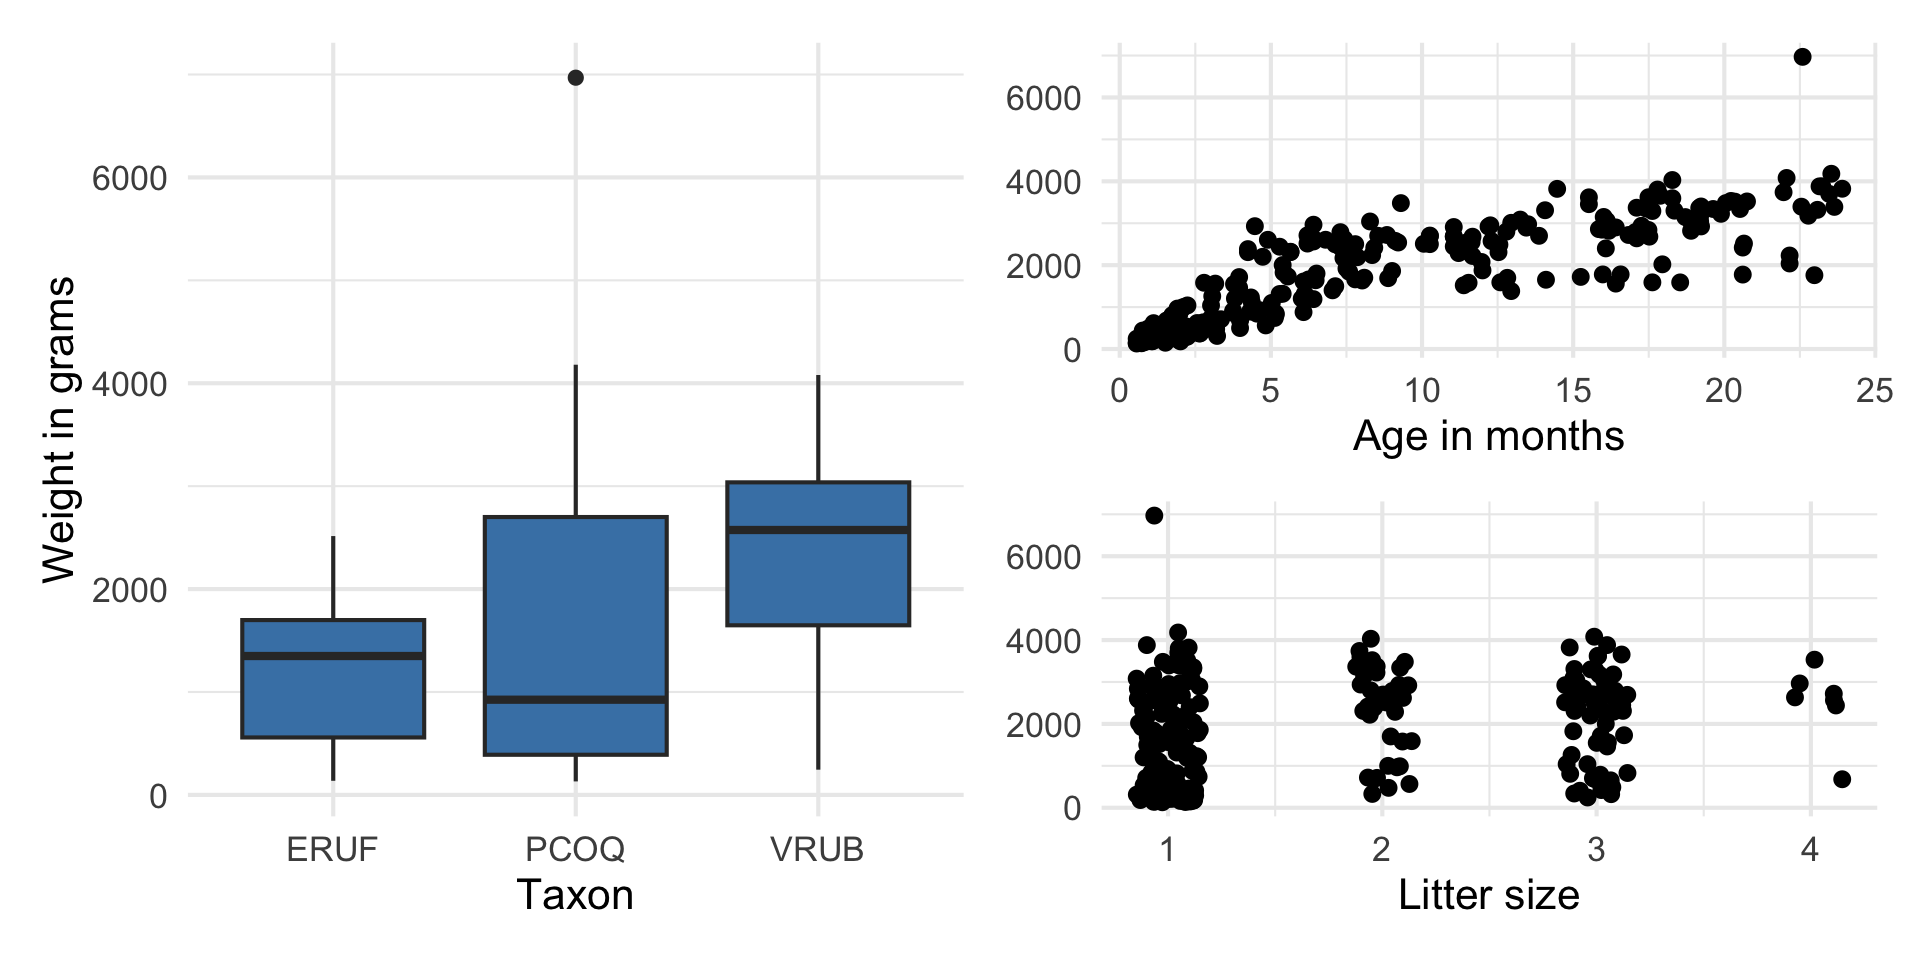
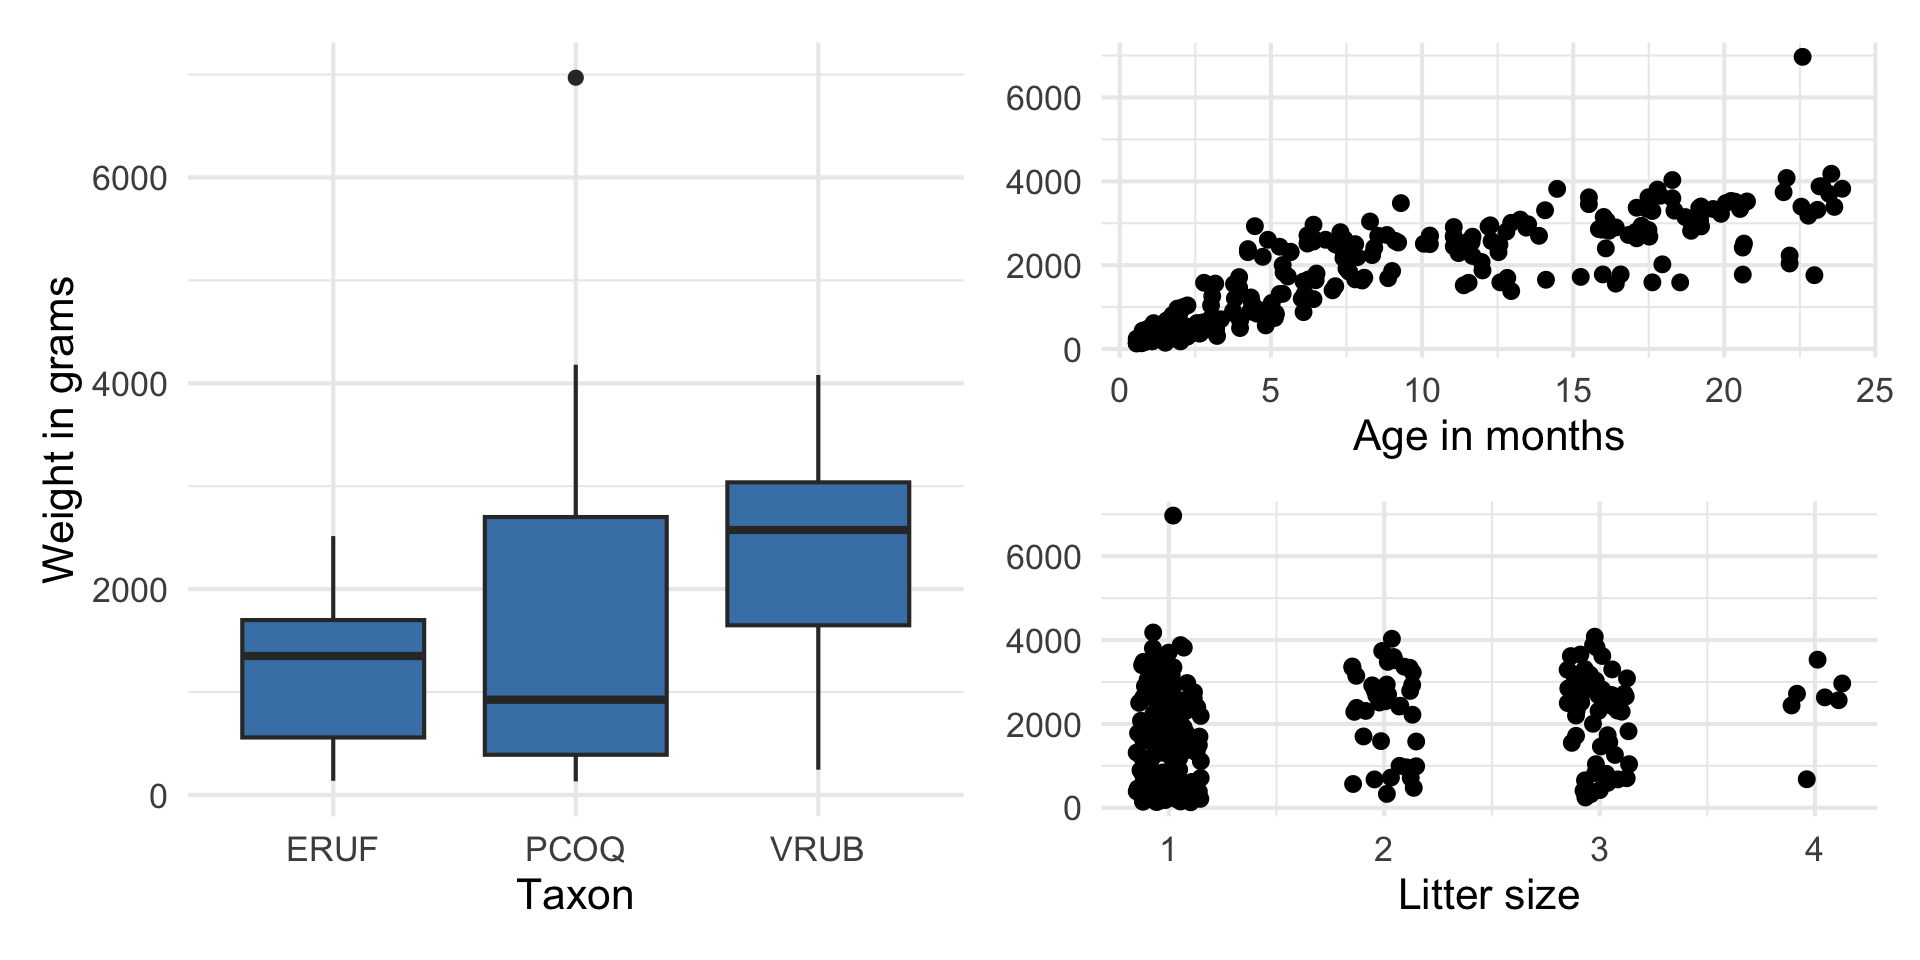
fix link to notes.

diff --git a/docs/index.html b/docs/index.html
@@ -376,23 +376,23 @@ ul.task-list li input[type="checkbox"] {
 <div class="column-screen-right">
 <div class="cell">
 <div class="cell-output-display">
-<div id="evedrgtkqq" style="padding-left:0px;padding-right:0px;padding-top:10px;padding-bottom:10px;overflow-x:auto;overflow-y:auto;width:auto;height:auto;">
-<style>#evedrgtkqq table {
+<div id="gwstlenmlp" style="padding-left:0px;padding-right:0px;padding-top:10px;padding-bottom:10px;overflow-x:auto;overflow-y:auto;width:auto;height:auto;">
+<style>#gwstlenmlp table {
   font-family: system-ui, 'Segoe UI', Roboto, Helvetica, Arial, sans-serif, 'Apple Color Emoji', 'Segoe UI Emoji', 'Segoe UI Symbol', 'Noto Color Emoji';
   -webkit-font-smoothing: antialiased;
   -moz-osx-font-smoothing: grayscale;
 }
 
-#evedrgtkqq thead, #evedrgtkqq tbody, #evedrgtkqq tfoot, #evedrgtkqq tr, #evedrgtkqq td, #evedrgtkqq th {
+#gwstlenmlp thead, #gwstlenmlp tbody, #gwstlenmlp tfoot, #gwstlenmlp tr, #gwstlenmlp td, #gwstlenmlp th {
   border-style: none;
 }
 
-#evedrgtkqq p {
+#gwstlenmlp p {
   margin: 0;
   padding: 0;
 }
 
-#evedrgtkqq .gt_table {
+#gwstlenmlp .gt_table {
   display: table;
   border-collapse: collapse;
   line-height: normal;
@@ -418,12 +418,12 @@ ul.task-list li input[type="checkbox"] {
   border-left-color: #D3D3D3;
 }
 
-#evedrgtkqq .gt_caption {
+#gwstlenmlp .gt_caption {
   padding-top: 4px;
   padding-bottom: 4px;
 }
 
-#evedrgtkqq .gt_title {
+#gwstlenmlp .gt_title {
   color: #333333;
   font-size: 125%;
   font-weight: initial;
@@ -435,7 +435,7 @@ ul.task-list li input[type="checkbox"] {
   border-bottom-width: 0;
 }
 
-#evedrgtkqq .gt_subtitle {
+#gwstlenmlp .gt_subtitle {
   color: #333333;
   font-size: 85%;
   font-weight: initial;
@@ -447,7 +447,7 @@ ul.task-list li input[type="checkbox"] {
   border-top-width: 0;
 }
 
-#evedrgtkqq .gt_heading {
+#gwstlenmlp .gt_heading {
   background-color: #FFFFFF;
   text-align: center;
   border-bottom-color: #FFFFFF;
@@ -459,13 +459,13 @@ ul.task-list li input[type="checkbox"] {
   border-right-color: #D3D3D3;
 }
 
-#evedrgtkqq .gt_bottom_border {
+#gwstlenmlp .gt_bottom_border {
   border-bottom-style: solid;
   border-bottom-width: 2px;
   border-bottom-color: #D3D3D3;
 }
 
-#evedrgtkqq .gt_col_headings {
+#gwstlenmlp .gt_col_headings {
   border-top-style: solid;
   border-top-width: 2px;
   border-top-color: #D3D3D3;
@@ -480,7 +480,7 @@ ul.task-list li input[type="checkbox"] {
   border-right-color: #D3D3D3;
 }
 
-#evedrgtkqq .gt_col_heading {
+#gwstlenmlp .gt_col_heading {
   color: #333333;
   background-color: #FFFFFF;
   font-size: 100%;
@@ -500,7 +500,7 @@ ul.task-list li input[type="checkbox"] {
   overflow-x: hidden;
 }
 
-#evedrgtkqq .gt_column_spanner_outer {
+#gwstlenmlp .gt_column_spanner_outer {
   color: #333333;
   background-color: #FFFFFF;
   font-size: 100%;
@@ -512,15 +512,15 @@ ul.task-list li input[type="checkbox"] {
   padding-right: 4px;
 }
 
-#evedrgtkqq .gt_column_spanner_outer:first-child {
+#gwstlenmlp .gt_column_spanner_outer:first-child {
   padding-left: 0;
 }
 
-#evedrgtkqq .gt_column_spanner_outer:last-child {
+#gwstlenmlp .gt_column_spanner_outer:last-child {
   padding-right: 0;
 }
 
-#evedrgtkqq .gt_column_spanner {
+#gwstlenmlp .gt_column_spanner {
   border-bottom-style: solid;
   border-bottom-width: 2px;
   border-bottom-color: #D3D3D3;
@@ -532,11 +532,11 @@ ul.task-list li input[type="checkbox"] {
   width: 100%;
 }
 
-#evedrgtkqq .gt_spanner_row {
+#gwstlenmlp .gt_spanner_row {
   border-bottom-style: hidden;
 }
 
-#evedrgtkqq .gt_group_heading {
+#gwstlenmlp .gt_group_heading {
   padding-top: 8px;
   padding-bottom: 8px;
   padding-left: 5px;
@@ -562,7 +562,7 @@ ul.task-list li input[type="checkbox"] {
   text-align: left;
 }
 
-#evedrgtkqq .gt_empty_group_heading {
+#gwstlenmlp .gt_empty_group_heading {
   padding: 0.5px;
   color: #333333;
   background-color: #FFFFFF;
@@ -577,15 +577,15 @@ ul.task-list li input[type="checkbox"] {
   vertical-align: middle;
 }
 
-#evedrgtkqq .gt_from_md > :first-child {
+#gwstlenmlp .gt_from_md > :first-child {
   margin-top: 0;
 }
 
-#evedrgtkqq .gt_from_md > :last-child {
+#gwstlenmlp .gt_from_md > :last-child {
   margin-bottom: 0;
 }
 
-#evedrgtkqq .gt_row {
+#gwstlenmlp .gt_row {
   padding-top: 8px;
   padding-bottom: 8px;
   padding-left: 5px;
@@ -604,7 +604,7 @@ ul.task-list li input[type="checkbox"] {
   overflow-x: hidden;
 }
 
-#evedrgtkqq .gt_stub {
+#gwstlenmlp .gt_stub {
   color: #333333;
   background-color: #FFFFFF;
   font-size: 100%;
@@ -617,7 +617,7 @@ ul.task-list li input[type="checkbox"] {
   padding-right: 5px;
 }
 
-#evedrgtkqq .gt_stub_row_group {
+#gwstlenmlp .gt_stub_row_group {
   color: #333333;
   background-color: #FFFFFF;
   font-size: 100%;
@@ -631,15 +631,15 @@ ul.task-list li input[type="checkbox"] {
   vertical-align: top;
 }
 
-#evedrgtkqq .gt_row_group_first td {
+#gwstlenmlp .gt_row_group_first td {
   border-top-width: 2px;
 }
 
-#evedrgtkqq .gt_row_group_first th {
+#gwstlenmlp .gt_row_group_first th {
   border-top-width: 2px;
 }
 
-#evedrgtkqq .gt_summary_row {
+#gwstlenmlp .gt_summary_row {
   color: #333333;
   background-color: #FFFFFF;
   text-transform: inherit;
@@ -649,16 +649,16 @@ ul.task-list li input[type="checkbox"] {
   padding-right: 5px;
 }
 
-#evedrgtkqq .gt_first_summary_row {
+#gwstlenmlp .gt_first_summary_row {
   border-top-style: solid;
   border-top-color: #D3D3D3;
 }
 
-#evedrgtkqq .gt_first_summary_row.thick {
+#gwstlenmlp .gt_first_summary_row.thick {
   border-top-width: 2px;
 }
 
-#evedrgtkqq .gt_last_summary_row {
+#gwstlenmlp .gt_last_summary_row {
   padding-top: 8px;
   padding-bottom: 8px;
   padding-left: 5px;
@@ -668,7 +668,7 @@ ul.task-list li input[type="checkbox"] {
   border-bottom-color: #D3D3D3;
 }
 
-#evedrgtkqq .gt_grand_summary_row {
+#gwstlenmlp .gt_grand_summary_row {
   color: #333333;
   background-color: #FFFFFF;
   text-transform: inherit;
@@ -678,7 +678,7 @@ ul.task-list li input[type="checkbox"] {
   padding-right: 5px;
 }
 
-#evedrgtkqq .gt_first_grand_summary_row {
+#gwstlenmlp .gt_first_grand_summary_row {
   padding-top: 8px;
   padding-bottom: 8px;
   padding-left: 5px;
@@ -688,7 +688,7 @@ ul.task-list li input[type="checkbox"] {
   border-top-color: #D3D3D3;
 }
 
-#evedrgtkqq .gt_last_grand_summary_row_top {
+#gwstlenmlp .gt_last_grand_summary_row_top {
   padding-top: 8px;
   padding-bottom: 8px;
   padding-left: 5px;
@@ -698,11 +698,11 @@ ul.task-list li input[type="checkbox"] {
   border-bottom-color: #D3D3D3;
 }
 
-#evedrgtkqq .gt_striped {
+#gwstlenmlp .gt_striped {
   background-color: rgba(128, 128, 128, 0.05);
 }
 
-#evedrgtkqq .gt_table_body {
+#gwstlenmlp .gt_table_body {
   border-top-style: solid;
   border-top-width: 2px;
   border-top-color: #D3D3D3;
@@ -711,7 +711,7 @@ ul.task-list li input[type="checkbox"] {
   border-bottom-color: #D3D3D3;
 }
 
-#evedrgtkqq .gt_footnotes {
+#gwstlenmlp .gt_footnotes {
   color: #333333;
   background-color: #FFFFFF;
   border-bottom-style: none;
@@ -725,7 +725,7 @@ ul.task-list li input[type="checkbox"] {
   border-right-color: #D3D3D3;
 }
 
-#evedrgtkqq .gt_footnote {
+#gwstlenmlp .gt_footnote {
   margin: 0px;
   font-size: 90%;
   padding-top: 4px;
@@ -734,7 +734,7 @@ ul.task-list li input[type="checkbox"] {
   padding-right: 5px;
 }
 
-#evedrgtkqq .gt_sourcenotes {
+#gwstlenmlp .gt_sourcenotes {
   color: #333333;
   background-color: #FFFFFF;
   border-bottom-style: none;
@@ -748,7 +748,7 @@ ul.task-list li input[type="checkbox"] {
   border-right-color: #D3D3D3;
 }
 
-#evedrgtkqq .gt_sourcenote {
+#gwstlenmlp .gt_sourcenote {
   font-size: 90%;
   padding-top: 4px;
   padding-bottom: 4px;
@@ -756,72 +756,72 @@ ul.task-list li input[type="checkbox"] {
   padding-right: 5px;
 }
 
-#evedrgtkqq .gt_left {
+#gwstlenmlp .gt_left {
   text-align: left;
 }
 
-#evedrgtkqq .gt_center {
+#gwstlenmlp .gt_center {
   text-align: center;
 }
 
-#evedrgtkqq .gt_right {
+#gwstlenmlp .gt_right {
   text-align: right;
   font-variant-numeric: tabular-nums;
 }
 
-#evedrgtkqq .gt_font_normal {
+#gwstlenmlp .gt_font_normal {
   font-weight: normal;
 }
 
-#evedrgtkqq .gt_font_bold {
+#gwstlenmlp .gt_font_bold {
   font-weight: bold;
 }
 
-#evedrgtkqq .gt_font_italic {
+#gwstlenmlp .gt_font_italic {
   font-style: italic;
 }
 
-#evedrgtkqq .gt_super {
+#gwstlenmlp .gt_super {
   font-size: 65%;
 }
 
-#evedrgtkqq .gt_footnote_marks {
+#gwstlenmlp .gt_footnote_marks {
   font-size: 75%;
   vertical-align: 0.4em;
   position: initial;
 }
 
-#evedrgtkqq .gt_asterisk {
+#gwstlenmlp .gt_asterisk {
   font-size: 100%;
   vertical-align: 0;
 }
 
-#evedrgtkqq .gt_indent_1 {
+#gwstlenmlp .gt_indent_1 {
   text-indent: 5px;
 }
 
-#evedrgtkqq .gt_indent_2 {
+#gwstlenmlp .gt_indent_2 {
   text-indent: 10px;
 }
 
-#evedrgtkqq .gt_indent_3 {
+#gwstlenmlp .gt_indent_3 {
   text-indent: 15px;
 }
 
-#evedrgtkqq .gt_indent_4 {
+#gwstlenmlp .gt_indent_4 {
   text-indent: 20px;
 }
 
-#evedrgtkqq .gt_indent_5 {
+#gwstlenmlp .gt_indent_5 {
   text-indent: 25px;
 }
 
-#evedrgtkqq .katex-display {
+#gwstlenmlp .katex-display {
   display: inline-flex !important;
   margin-bottom: 0.75em !important;
 }
 
-#evedrgtkqq div.Reactable > div.rt-table > div.rt-thead > div.rt-tr.rt-tr-group-header > div.rt-th-group:after {
+#gwstlenmlp div.Reactable > div.rt-table > div.rt-thead > div.rt-tr.rt-tr-group-header > div.rt-th-group:after {
   height: 0px !important;
 }
 </style>
@@ -1136,7 +1136,7 @@ ul.task-list li input[type="checkbox"] {
 <path d="M128 32C92.7 32 64 60.7 64 96V352h64V96H512V352h64V96c0-35.3-28.7-64-64-64H128zM19.2 384C8.6 384 0 392.6 0 403.2C0 445.6 34.4 480 76.8 480H563.2c42.4 0 76.8-34.4 76.8-76.8c0-10.6-8.6-19.2-19.2-19.2H19.2z"></path>
 </svg>
 </a></td>
-<td class="gt_row gt_center" headers="notes"><a href="./slides/06-predictor-types-notes.html">
+<td class="gt_row gt_center" headers="notes"><a href="./slides/06-predictor-types.html">
 <svg aria-hidden="true" role="img" viewbox="0 0 576 512" style="height:1em;width:1.12em;vertical-align:-0.125em;margin-left:auto;margin-right:auto;font-size:inherit;fill:currentColor;overflow:visible;position:relative;">
 <path d="M0 64C0 28.7 28.7 0 64 0H224V128c0 17.7 14.3 32 32 32H384V299.6l-94.7 94.7c-8.2 8.2-14 18.5-16.8 29.7l-15 60.1c-2.3 9.4-1.8 19 1.4 27.8H64c-35.3 0-64-28.7-64-64V64zm384 64H256V0L384 128zM549.8 235.7l14.4 14.4c15.6 15.6 15.6 40.9 0 56.6l-29.4 29.4-71-71 29.4-29.4c15.6-15.6 40.9-15.6 56.6 0zM311.9 417L441.1 287.8l71 71L382.9 487.9c-4.1 4.1-9.2 7-14.9 8.4l-60.1 15c-5.5 1.4-11.2-.2-15.2-4.2s-5.6-9.7-4.2-15.2l15-60.1c1.4-5.6 4.3-10.8 8.4-14.9z"></path>
 </svg>
